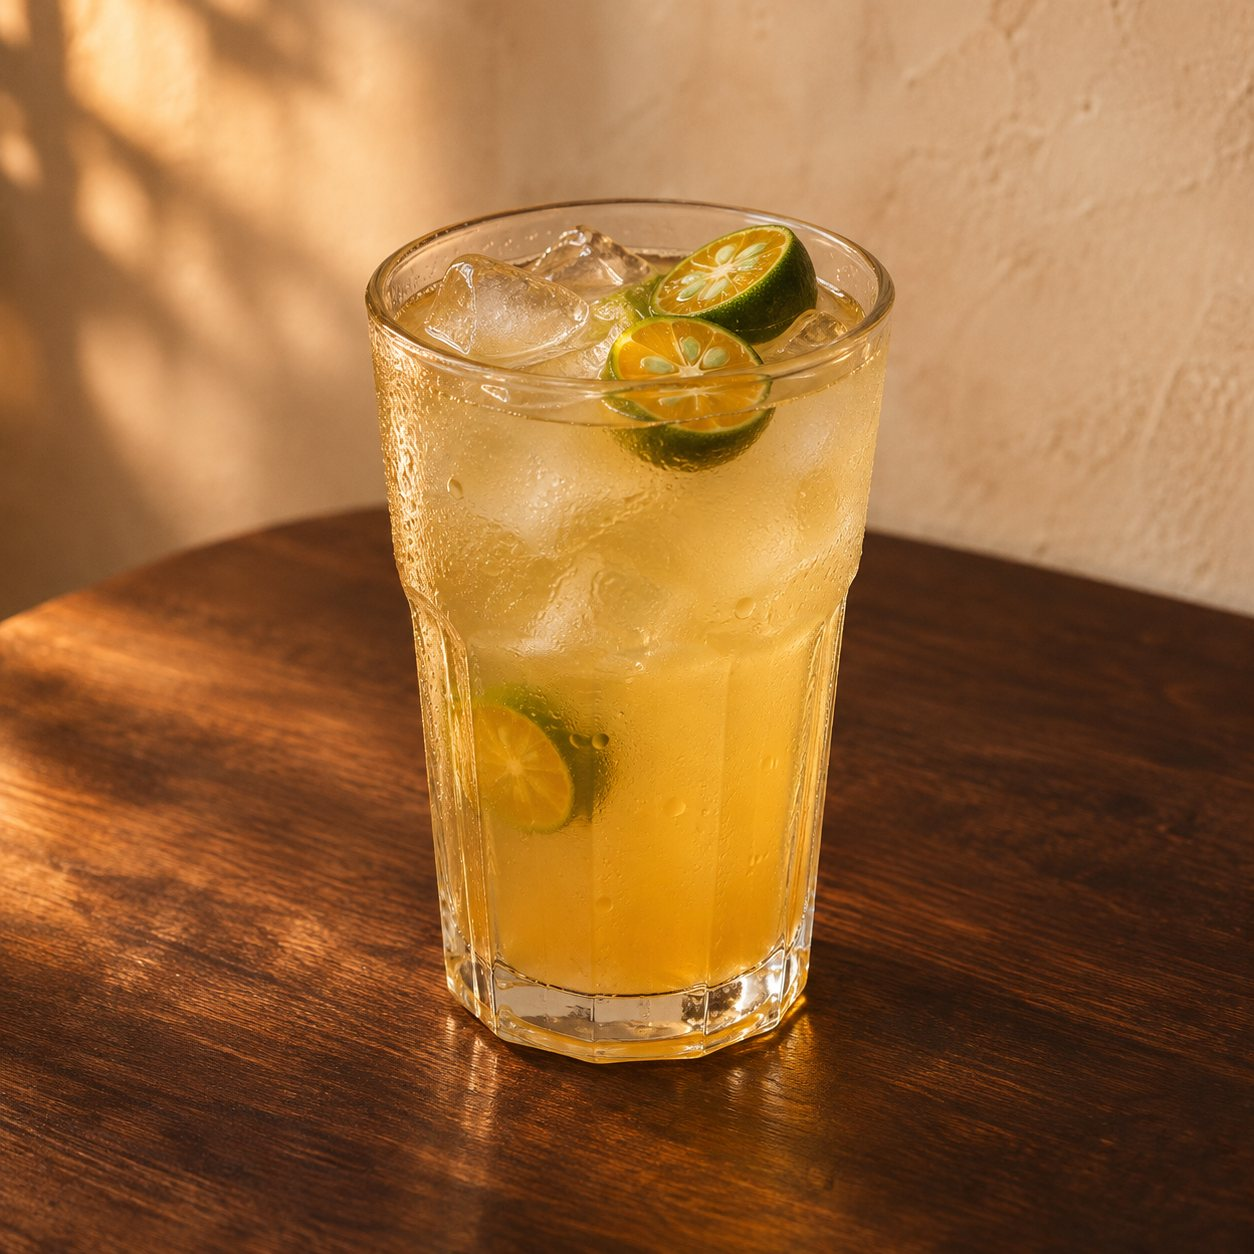
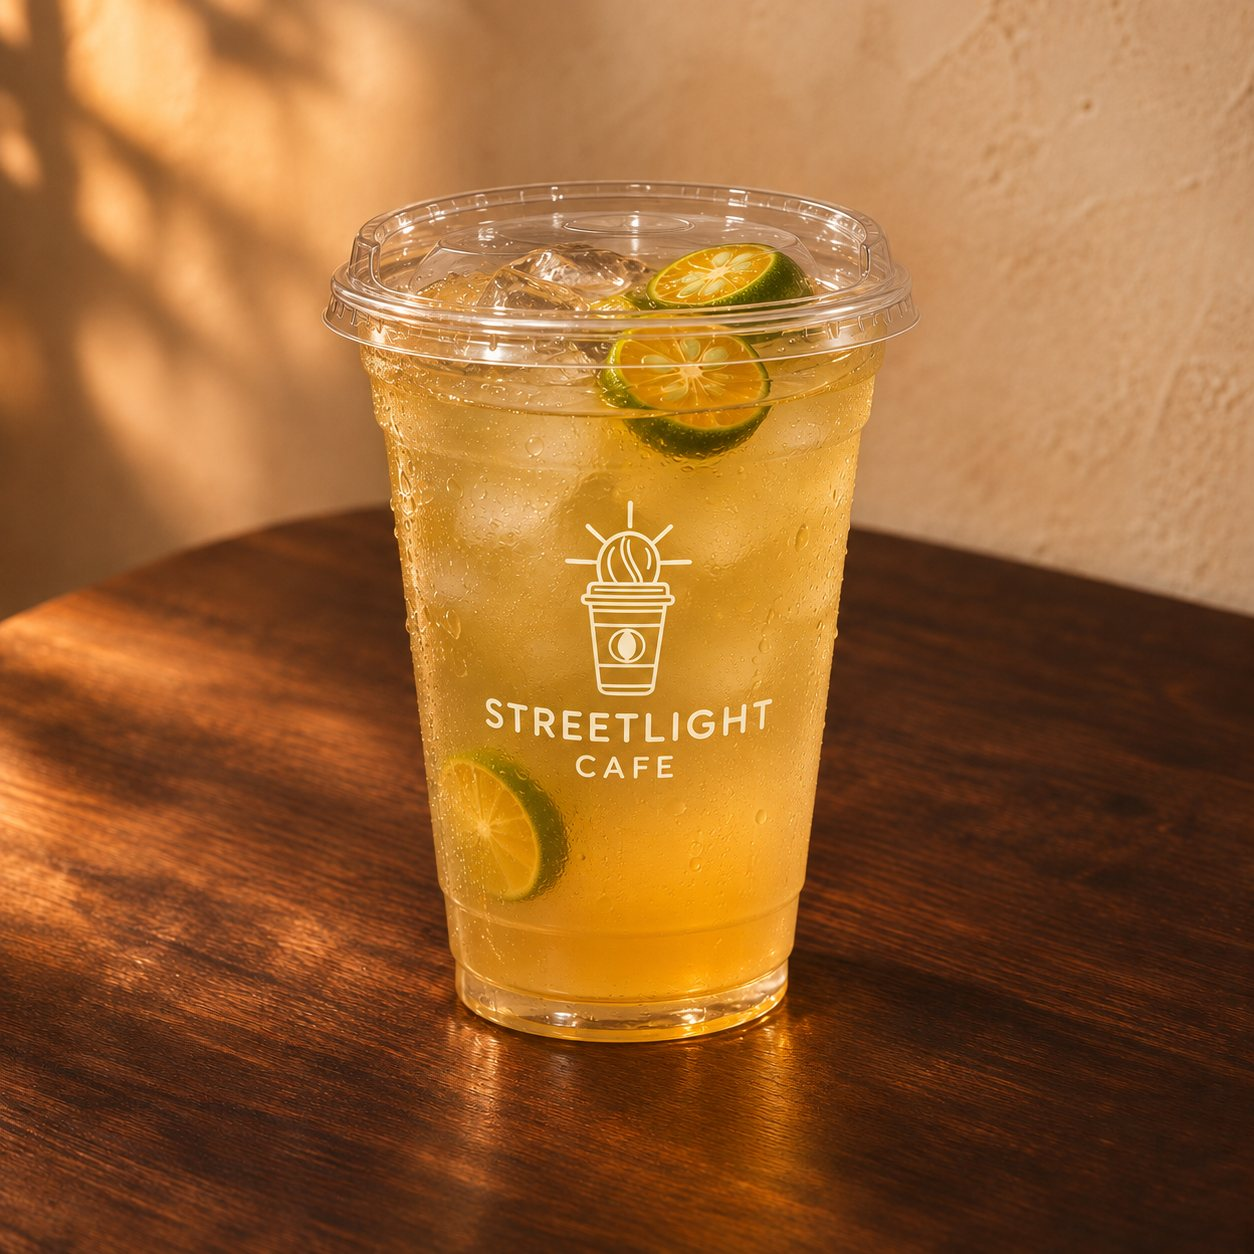
Show branded plastic cups in sample drink photos

diff --git a/README.md b/README.md
@@ -21,4 +21,4 @@ npm run dev
 
 The drink names and descriptions in `src/App.tsx` are illustrative because an official menu and prices were not supplied. Confirm the café's offerings before presenting them as final.
 
-The 16 drink photos in `public/drinks/` were generated as illustrative sample images. They are not photos of the café's actual products.
+The 16 drink photos in `public/drinks/` are illustrative branded-cup mockups based on the café's supplied cup photo and logo. They are not photos of the café's actual products.
